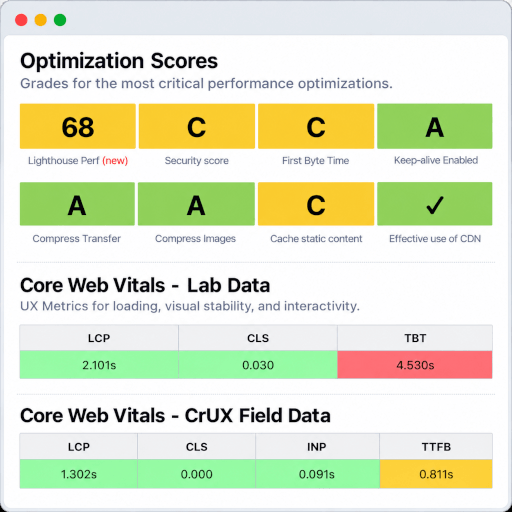
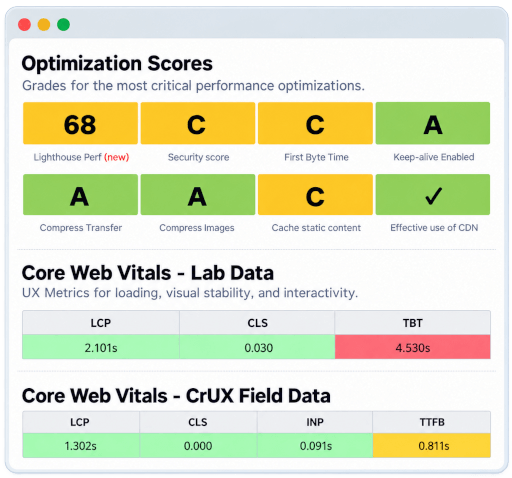
Update the home hero image capture
A tighter crop of the same capture: 512x478 instead of 512x512, so the
<img> height goes to 478 to keep the reserved box matching the image.
The ?20260927 cache string stays: the previous capture that used it
has not been published yet.

Changed region(s): [[0.0, 0.0, 1.0, 1.0]]

diff --git a/_site/index.html b/_site/index.html
@@ -121,7 +121,7 @@
               </div>
             </div>
             <!-- IMAGE -->
-            <img src="/assets/img/webperformance-report-hero-image.png?20260927" width="512" height="512" fetchpriority="high" alt="WebPerformance Report Inbox" class="ui-image-half-right">
+            <img src="/assets/img/webperformance-report-hero-image.png?20260927" width="512" height="478" fetchpriority="high" alt="WebPerformance Report Inbox" class="ui-image-half-right">
           </div>
         </div>
       </section>

diff --git a/_site/thanks/index.html b/_site/thanks/index.html
@@ -121,7 +121,7 @@
               </div>
             </div>
             <!-- IMAGE -->
-            <img src="/assets/img/webperformance-report-hero-image.png?20260927" width="512" height="512" fetchpriority="high" alt="WebPerformance Report Inbox" class="ui-image-half-right">
+            <img src="/assets/img/webperformance-report-hero-image.png?20260927" width="512" height="478" fetchpriority="high" alt="WebPerformance Report Inbox" class="ui-image-half-right">
           </div>
         </div>
       </section>
